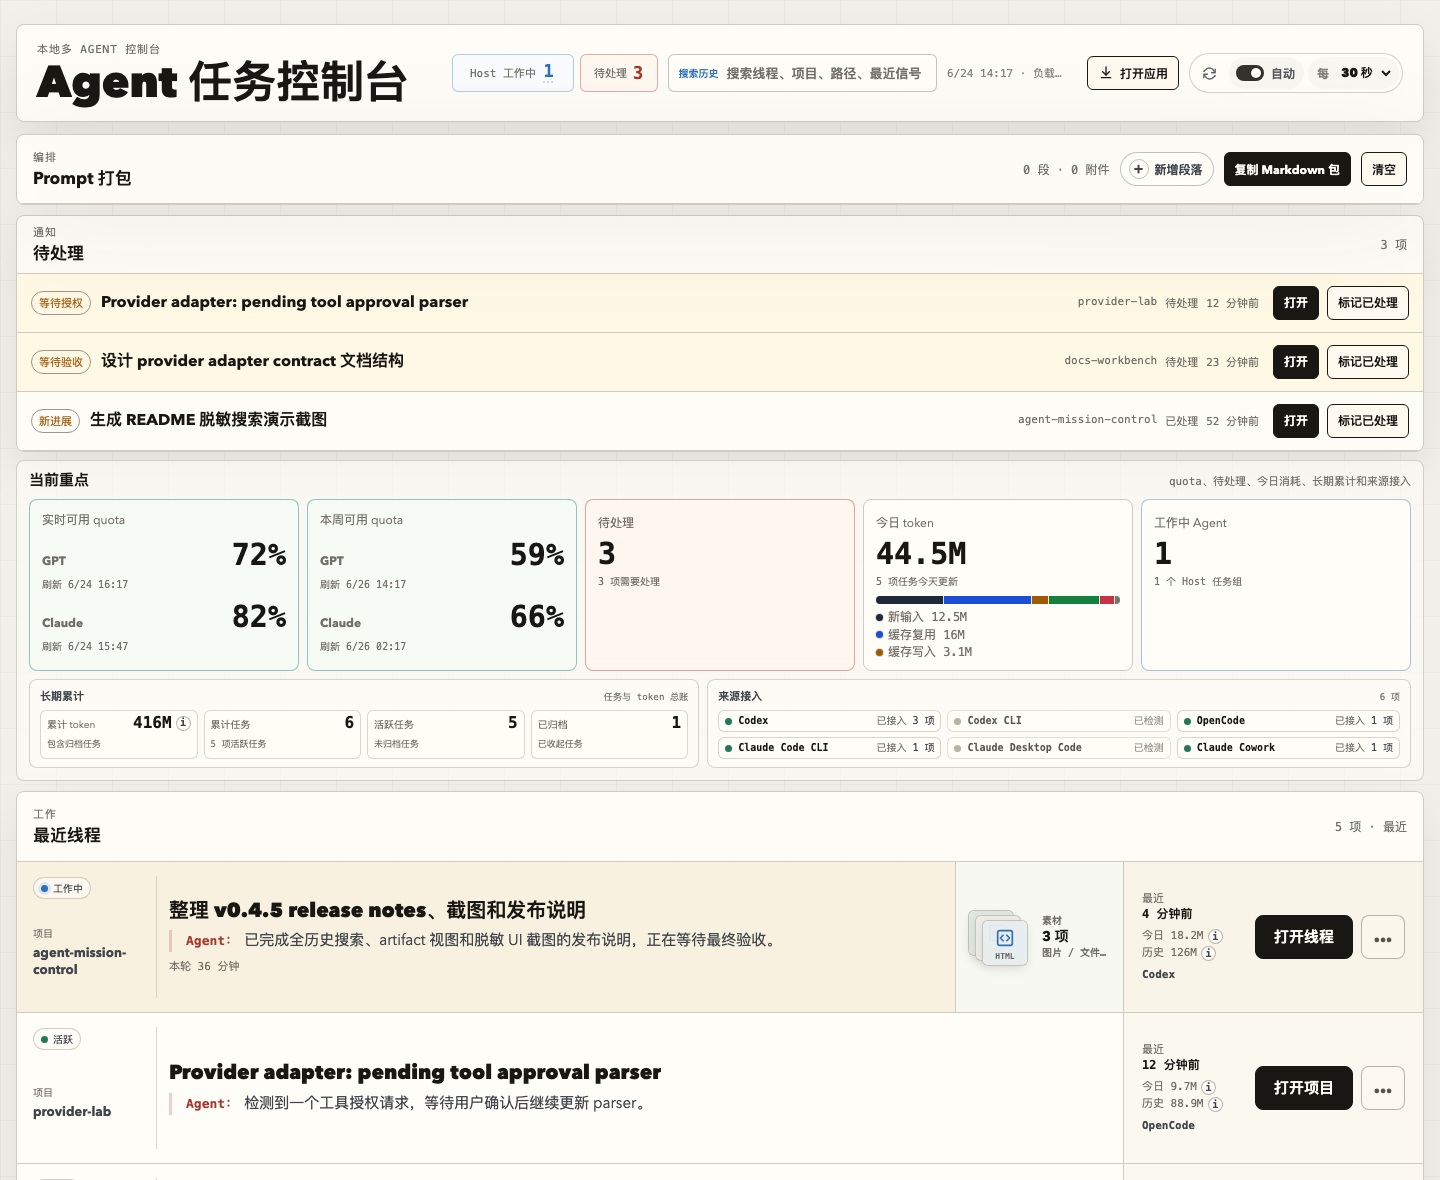
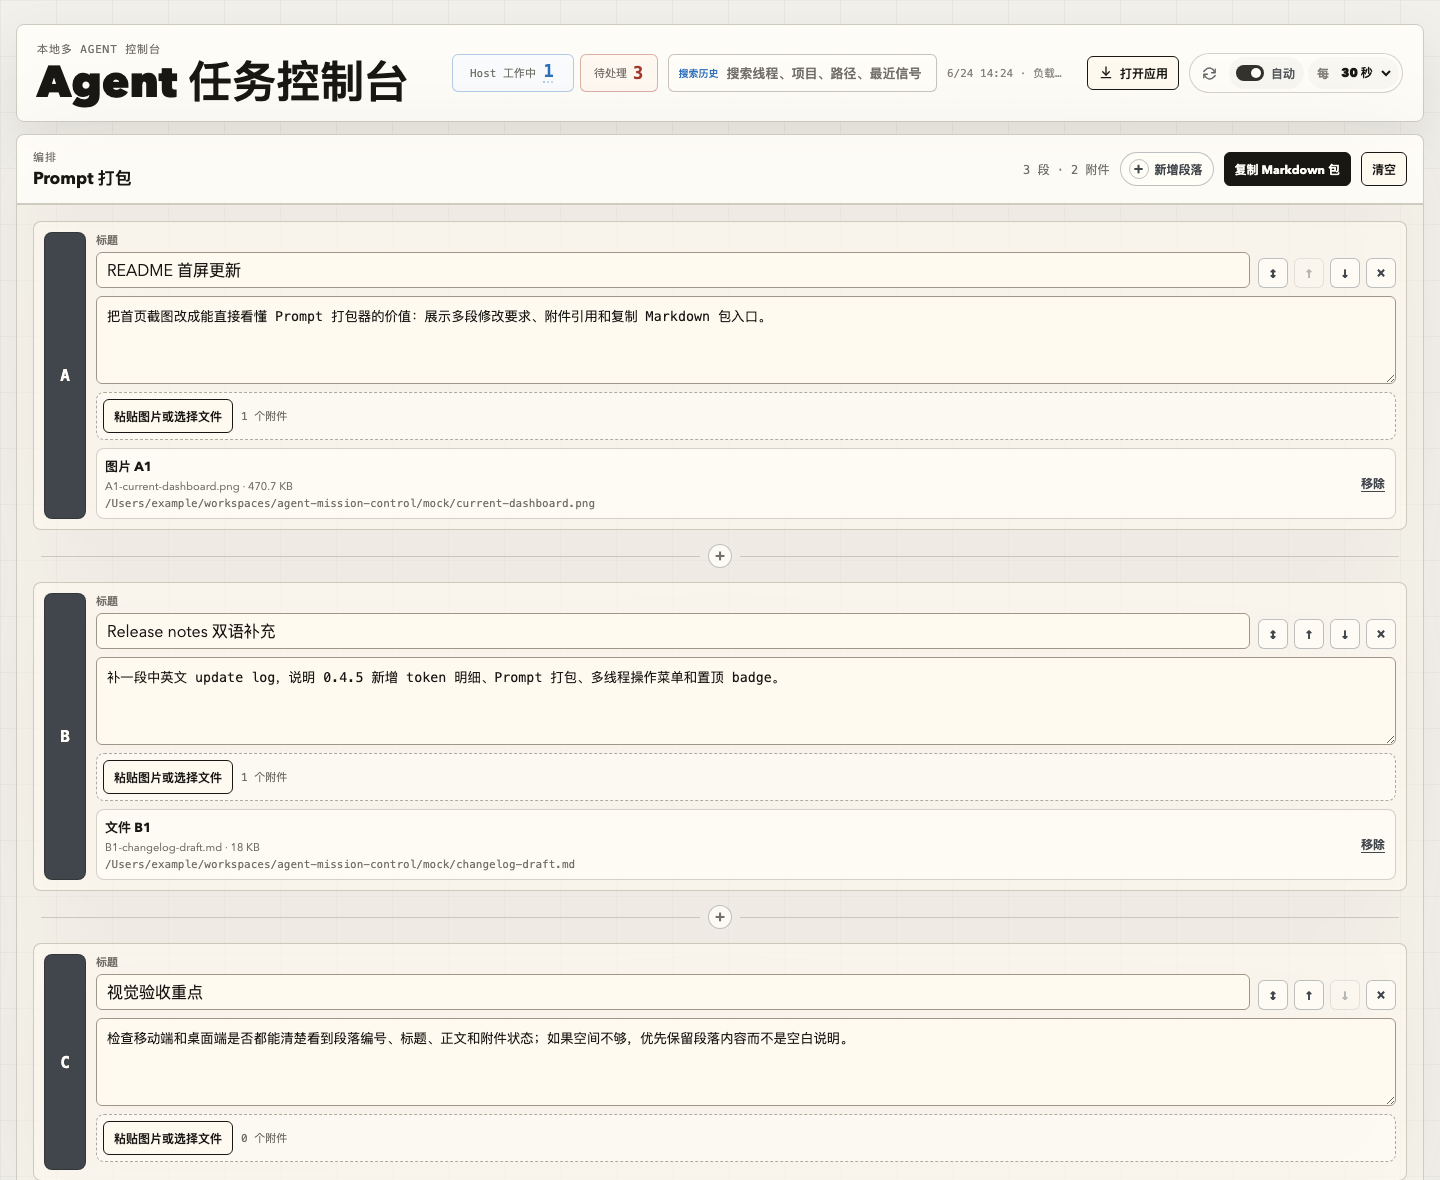
docs: show prompt pack mock flow

diff --git a/README.md b/README.md
@@ -6,9 +6,9 @@
 
 ## 功能截图
 
-### 线程列表与素材摘要
+### Prompt 打包与工作台总览
 
-![线程列表与素材摘要](docs/assets/agent-mission-control-real-ui.png)
+![Prompt 打包与工作台总览](docs/assets/agent-mission-control-real-ui.png)
 
 ### 全历史搜索
 